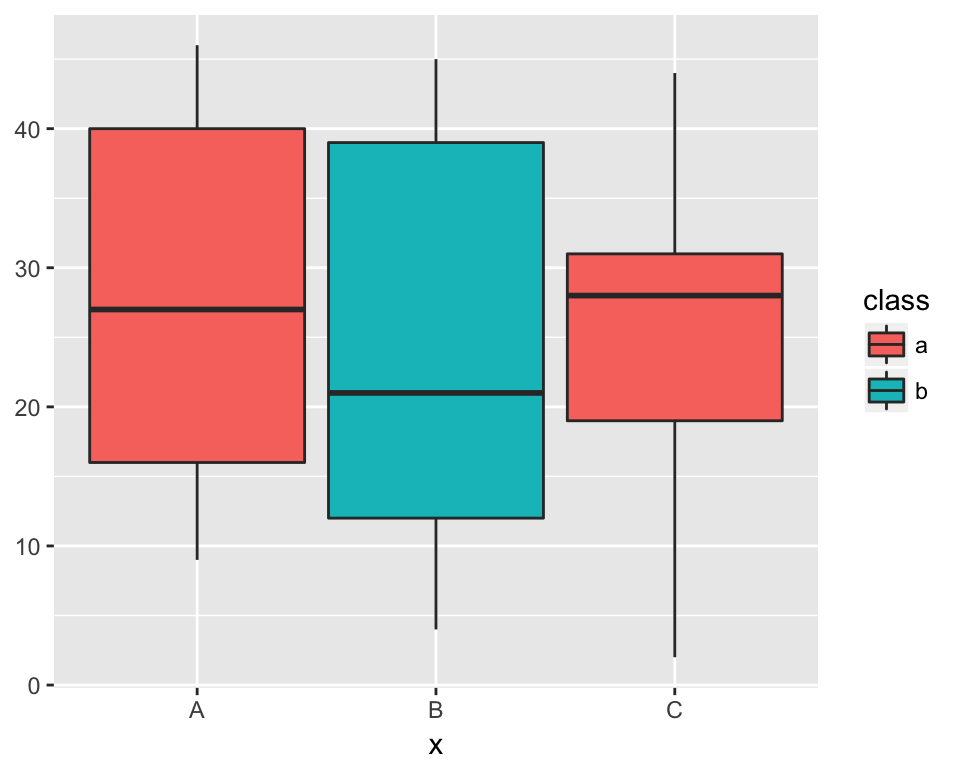
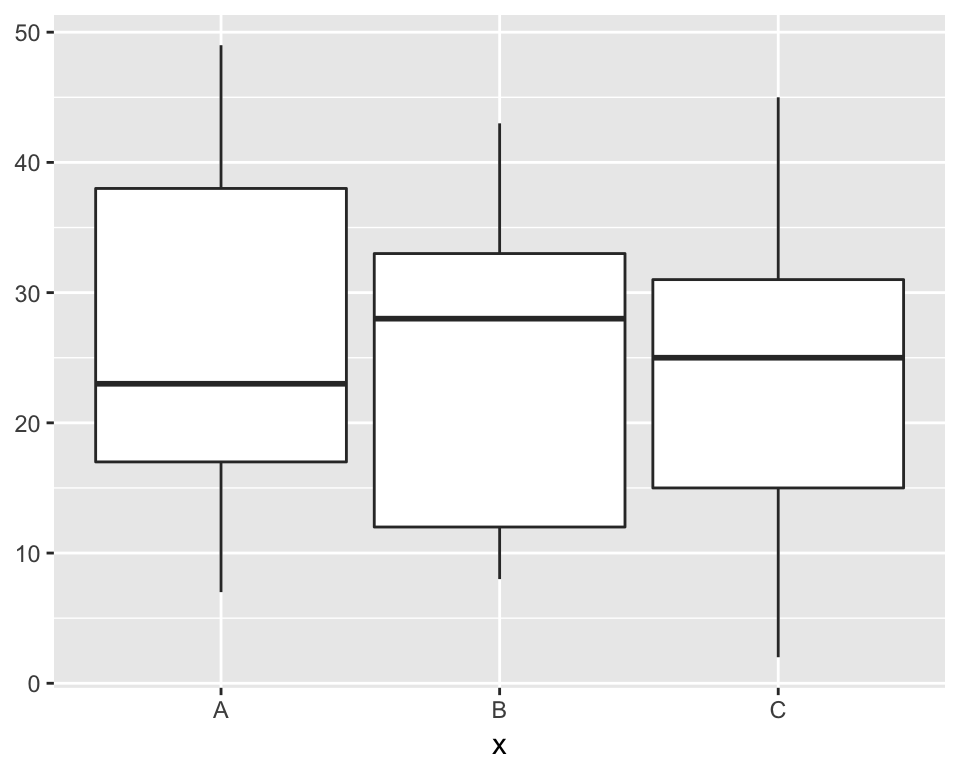
update

diff --git a/docs/geom-layer.html b/docs/geom-layer.html
@@ -355,12 +355,10 @@ $(document).ready(function () {
                      <span class="dt">lower =</span> <span class="kw">sample</span>(<span class="dv">11</span>:<span class="dv">20</span>, <span class="dv">3</span>),
                      <span class="dt">middle =</span> <span class="kw">sample</span>(<span class="dv">21</span>:<span class="dv">30</span>, <span class="dv">3</span>),
                      <span class="dt">upper =</span> <span class="kw">sample</span>(<span class="dv">31</span>:<span class="dv">40</span>, <span class="dv">3</span>),
-                     <span class="dt">ymax =</span> <span class="kw">sample</span>(<span class="dv">41</span>:<span class="dv">50</span>, <span class="dv">3</span>),
-                     <span class="dt">class =</span> <span class="kw">c</span>(<span class="st">&#39;a&#39;</span>, <span class="st">&#39;b&#39;</span>, <span class="st">&#39;a&#39;</span>))
+                     <span class="dt">ymax =</span> <span class="kw">sample</span>(<span class="dv">41</span>:<span class="dv">50</span>, <span class="dv">3</span>))
 <span class="kw">ggplot</span>(<span class="dt">data =</span> my_data) +
 <span class="st">  </span><span class="kw">geom_boxplot</span>(<span class="dt">mapping =</span> <span class="kw">aes</span>(<span class="dt">x=</span>x, <span class="dt">ymin=</span>ymin, <span class="dt">lower=</span>lower, 
-                             <span class="dt">middle=</span>middle, <span class="dt">upper=</span>upper, <span class="dt">ymax=</span>ymax,
-                             <span class="dt">fill =</span> class),
+                             <span class="dt">middle=</span>middle, <span class="dt">upper=</span>upper, <span class="dt">ymax=</span>ymax),
                <span class="dt">stat =</span> <span class="st">&quot;identity&quot;</span>)</code></pre></div>
 <p><img src="geom-layer_files/figure-html/unnamed-chunk-5-1.png" width="480" style="display: block; margin: auto;" /></p>
 </div>
